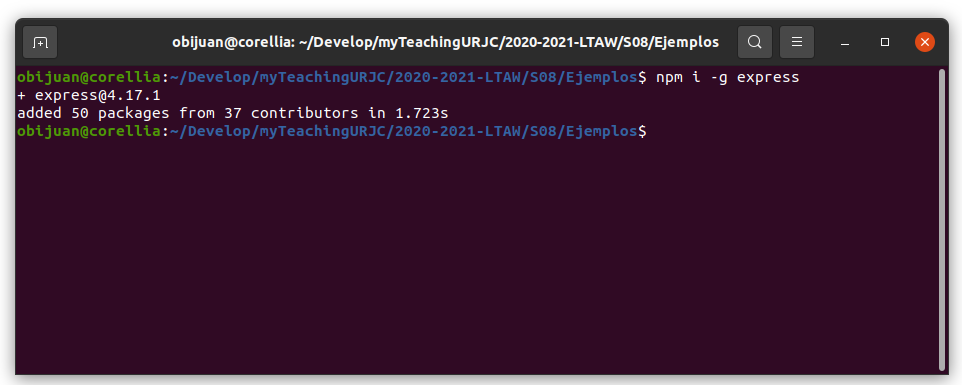
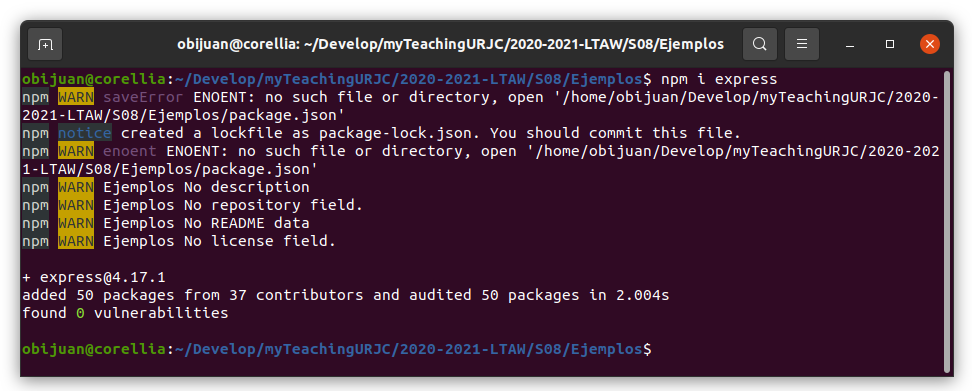
S8: Example added

Changed region(s): [[0.0, 0.0312, 0.9979, 0.9974]]

diff --git a/S08/Ejemplos/Ej-03.js b/S08/Ejemplos/Ej-03.js
@@ -1,0 +1,11 @@
+const express = require('express');
+const app = express();
+ 
+//-- Puerto donde lanzar el servidor
+const PORT = 8080;
+
+app.get('/', function (req, res) {
+  res.send('Hello World');
+})
+ 
+app.listen(PORT);
